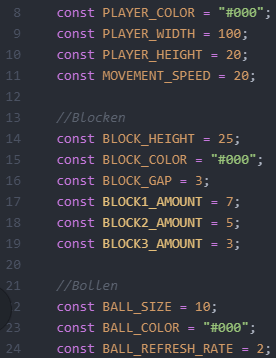
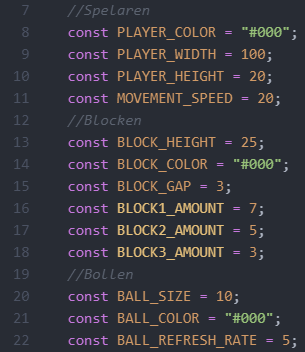
Fortsatt på om-spelet.html

diff --git a/projektet/pages/om-utvecklingen.html b/projektet/pages/om-utvecklingen.html
@@ -26,7 +26,7 @@
       respektive ctx, vilket är standardnamn för dessa konstanter. De kommer
       sedan användas för att rita ut grafiken i canvas-fönstret.</p>
 
-      <h3>Deklarera konstanter</h3>
+      <h3>Deklarera konstanter och variabler</h3>
       <img src="../images/kod2.png" alt='
         //Spelaren
         const PLAYER_COLOR = "#000";
@@ -56,7 +56,47 @@
       BOLL_SIZE. Att ha värdena i konstanter gör det även lättare för oss att
       läsa koden senare, då ifall vi till exempel skriver 10 inte har någon
       aning om varför, medans om vi läser BALL_SIZE istället så förstår vi
-      direkt vad som menasö.</p>
+      direkt vad som menas.</p>
+      <img src="../images/kod3.png"
+        alt="var playerX = Math.floor(canvas.width * 0.5 - PLAYER_WIDTH/2);
+        var playerY = Math.floor(canvas.height * 0.8);">
+      <p>Sedan har vi en liten enkel uträkning som sätter startkoordinaterna för
+      spelaren. Detta för att spelaren alltid ska ha samma relativa plats,
+      även om vi minskar eller förstorar canvas-fönstret.</p>
+      <img src="../images/kod4.png"
+        alt="//Variabler för Boll.
+             var ballX = playerX + (PLAYER_WIDTH / 2) - (BALL_SIZE/2);
+             var ballY = playerY - canvas.height * 0.1;
+             var ballMoveX = 1;
+             var ballMoveY = 1;">
+      <p>Vi sätter även startkoordinater för bollen, samt ett startvärde för hur
+      bollen ska röra sig i X och Y-rikting.</p>
+      <img src="../images/kod5.png"
+      alt="var blockY = 100;
+           var blockLayer1 = [];
+           var blockLayer2 = [];
+           var blockLayer3 = [];">
+      <p>Sist så initeras en integer samt 3 arrayer för att kunna hantera de
+      block som kommer skapas senare. Värdet på blockY anger i vilken Y-höjd som
+      den första arrayens block ska genereras.</p>
+      <h3>Definiera Block-klassen</h3>
+      <img src="../images/kod6.png"
+      alt="//Klass för block med 4 egenskaper.
+           class Block {
+             constructor(x, y, width, height) {
+               this.x = Math.floor(x);
+               this.y = Math.floor(y);
+               this.width = Math.floor(width);
+               this.height = Math.floor(height);
+             }
+           }">
+      <p>Här definieras projektets enda klass, som heter Block. Det är senare
+      den vi kommer skapa instanser av när vi genererar just block. Varje block
+      har 4 egenskaper som anges i dess konstruktor, egenskaperna x, y, width
+      och height. Dessa kommer sedan få olika värden för de olika instanserna vi
+      skapar av klassen. I konstruktorn så avrundas även alla talen till heltal,
+      detta för att undvika buggar, då bollen enbart rör sig 1 heltalskoordinat
+      åt gången.</p>
     </article>
     <footer>
       <p>Byggt av Thea Crona i kursen Webbutveckling 2.</p>

diff --git a/projektet/canvas.js b/projektet/canvas.js
@@ -2,7 +2,6 @@ function main() {
   //Canvas-Konstanter
   const canvas = document.getElementById("breakout");
   const ctx = canvas.getContext("2d");
-
   //Konstanter för spelelement
   //Spelaren
   const PLAYER_COLOR = "#000";
@@ -25,26 +24,27 @@ function main() {
   var playerX = Math.floor(canvas.width * 0.5 - PLAYER_WIDTH/2);
   var playerY = Math.floor(canvas.height * 0.8);
 
-  //Klass för block med 4 egenskaper.
-  class Block {
-    constructor(x, y, width, height) {
-      this.x = Math.floor(x);
-      this.y = Math.floor(y);
-      this.width = width;
-      this.height = height;
-    }
-  }
+  //Variabler för Boll.
+  var ballX = playerX + (PLAYER_WIDTH / 2) - (BALL_SIZE/2);
+  var ballY = playerY - canvas.height * 0.1;
+  var ballMoveX = 1;
+  var ballMoveY = 1;
+
   //Variabel för block samt 3 arrayer där block läggs efter de skapats.
   var blockY = 100;
   var blockLayer1 = [];
   var blockLayer2 = [];
   var blockLayer3 = [];
 
-  //Variabler för Boll.
-  var ballX = playerX + (PLAYER_WIDTH / 2) - (BALL_SIZE/2);
-  var ballY = playerY - canvas.height * 0.1;
-  var ballMoveX = 1;
-  var ballMoveY = 1;
+  //Klass för block med 4 egenskaper.
+  class Block {
+    constructor(x, y, width, height) {
+      this.x = Math.floor(x);
+      this.y = Math.floor(y);
+      this.width = Math.floor(width);
+      this.height = Math.floor(height);
+    }
+  }
 
   //En funktion som ritar alla block och skapar instanser av block-klassen
   //som sedan läggs till i arrayerna.
